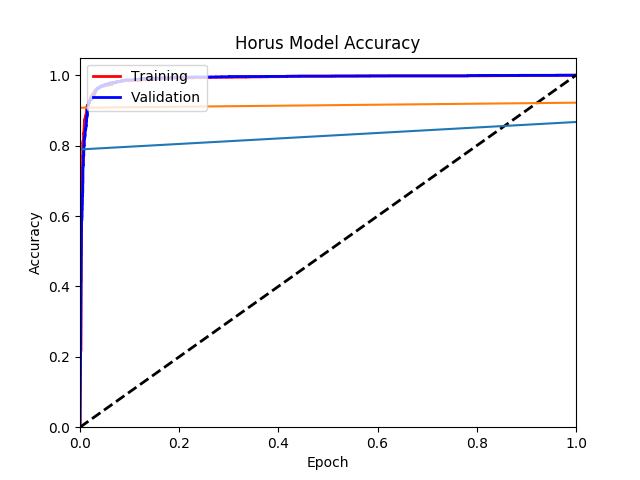
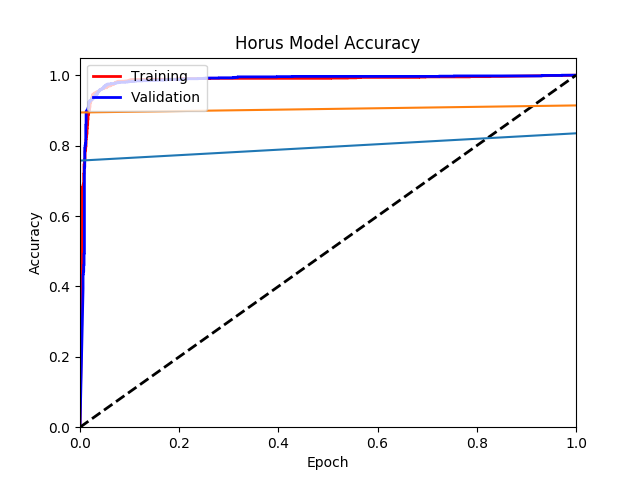
Evaluate glitch fixed? New trianing results

Changed region(s): [[0.125, 0.1562, 0.9062, 0.6562]]

diff --git a/evaluate.py b/evaluate.py
@@ -40,7 +40,8 @@ class Evaluator:
         plt.savefig('{}{}_aegraph.png'.format(constants.FIGURES, name))
         if self.show:
             plt.show()
-
+        plt.clf()
+        
     """
     Plot Confusion matrix
     -----------------------------------------------------------
@@ -65,6 +66,7 @@ class Evaluator:
 
         if self.show:
             plt.show()
+        plt.clf()
 
     """
     Plot ROC Curve
@@ -115,6 +117,7 @@ class Evaluator:
         plt.savefig('{}{}_roc.png'.format(constants.FIGURES, name))
         if self.show:
             plt.show()
+        plt.clf()
 
     """
     Predict test data
